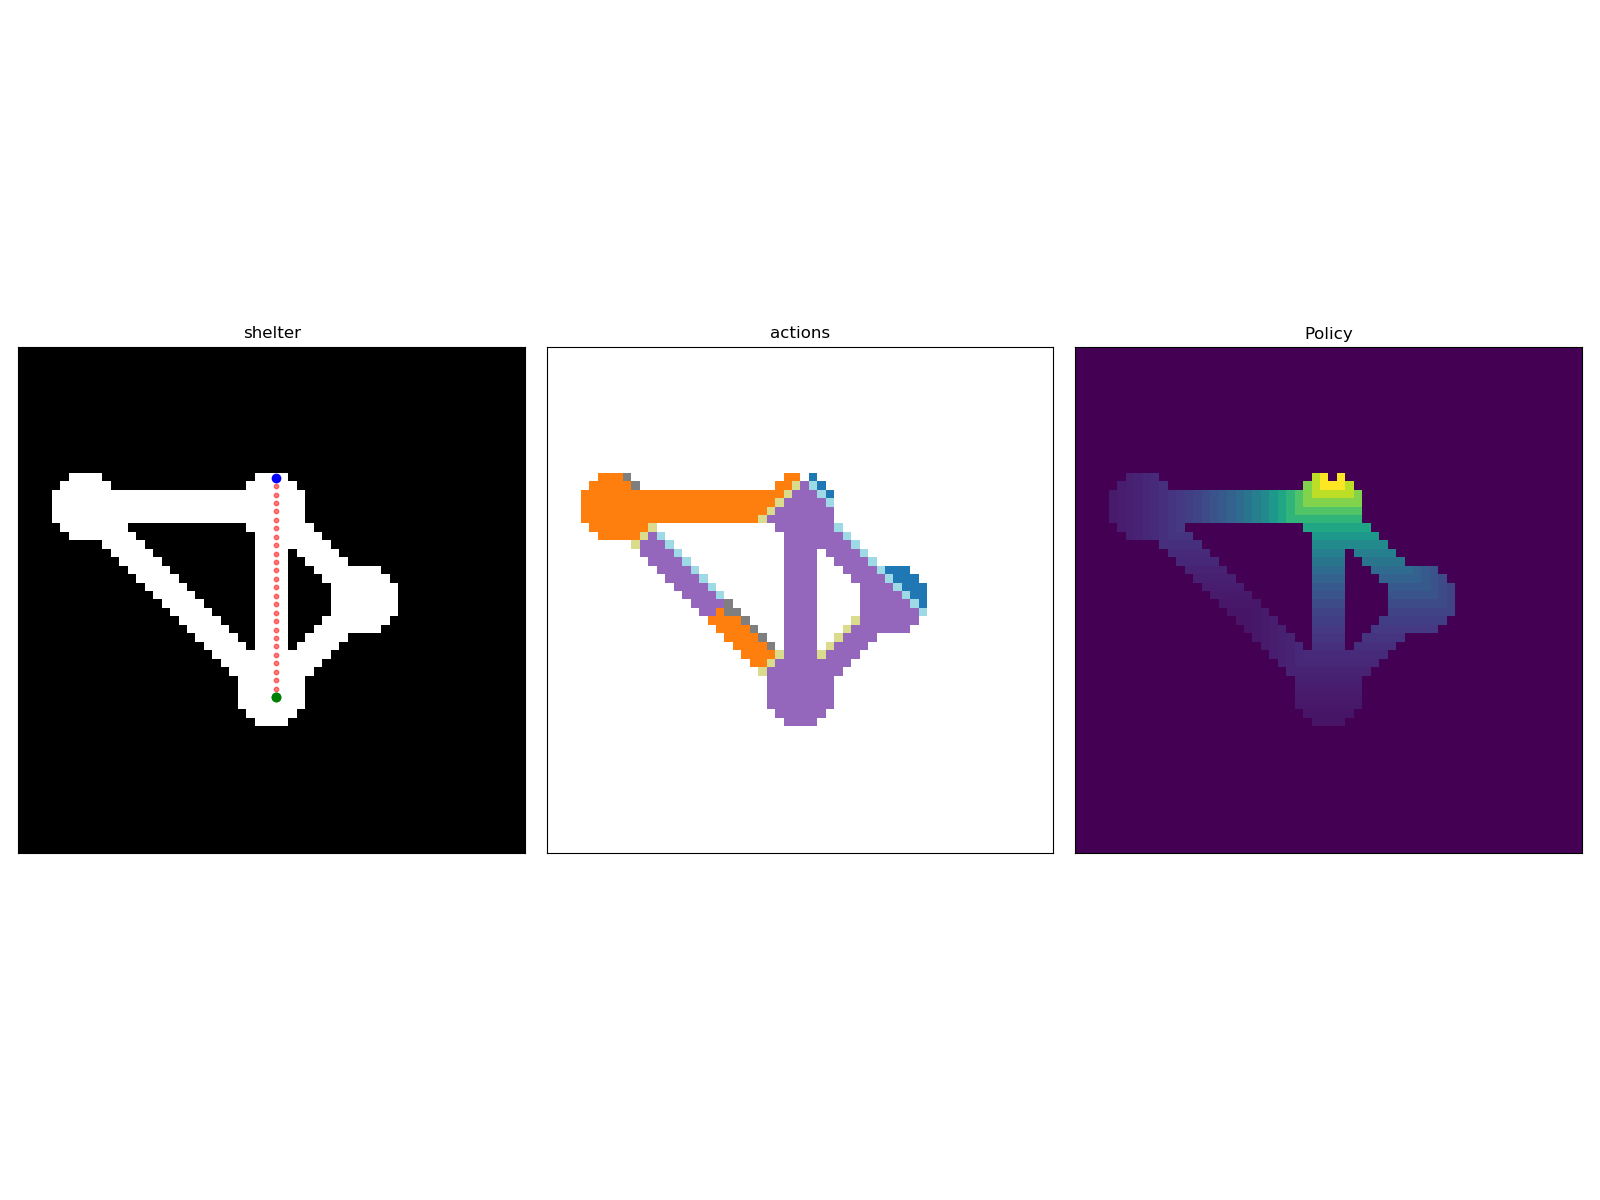
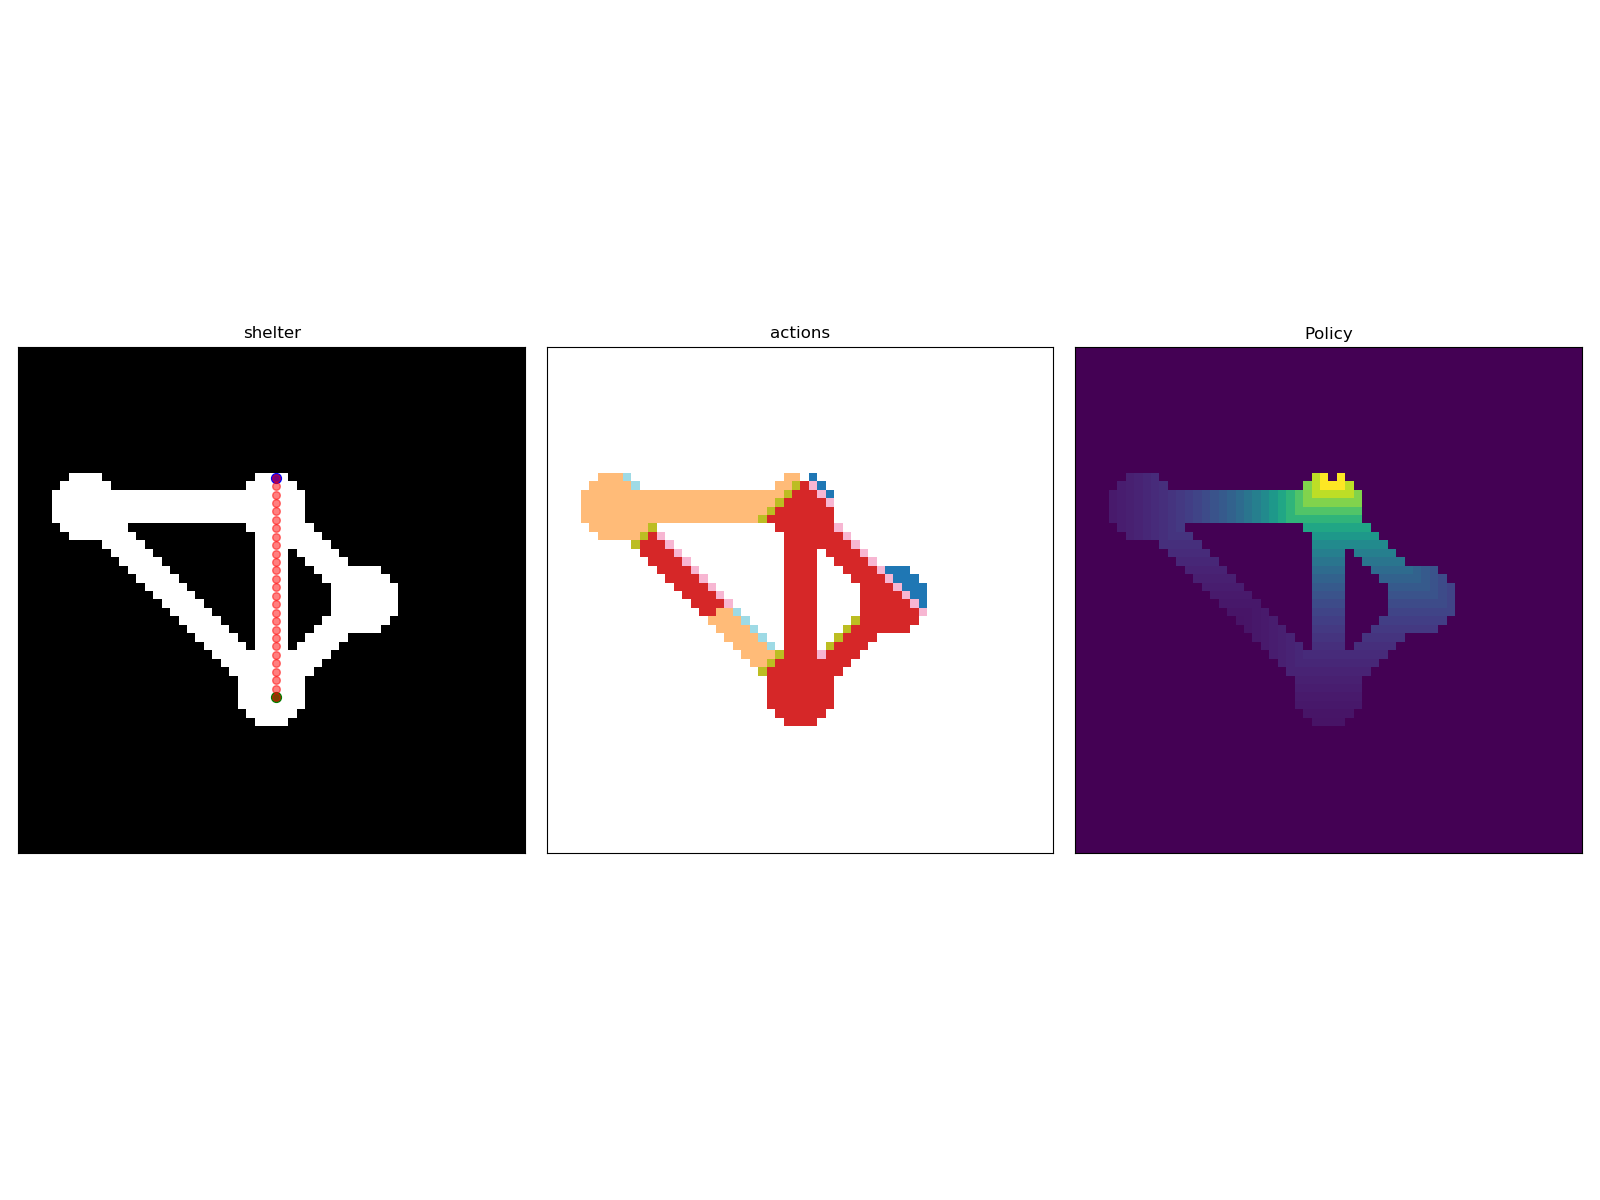
rl fixed action names

Changed region(s): [[0.3438, 0.37, 0.5938, 0.6167], [0.1562, 0.4008, 0.1875, 0.5858]]

diff --git a/Processing/modelling/maze_path_rl/path_agent.py b/Processing/modelling/maze_path_rl/path_agent.py
@@ -6,6 +6,7 @@ from Processing.tracking_stats.math_utils import calc_distance_between_points_2d
 from math import exp  
 import json
 import os
+from random import choice
 
 class Model:
     def __init__(self, env, load_trained=False):
@@ -16,7 +17,6 @@ class Model:
         
         self.max_iters = 201
         self.max_steps = round(self.env.grid_size**2 / 2)
-        self.walked = None
 
         # Parameters
         self.epsilon = .95  # the higher the less greedy
@@ -24,6 +24,13 @@ class Model:
         self.gamma = .9     # discount on future rewards, the higher the less discount
 
         self.shelter_is_goal = [0, .5, 1]  # 0-1 probability of prefering the action that leads to the shelter
+
+
+        self.shortest_walk = None
+
+        self.n_random_walks = 10
+        self.random_walks = []
+
 
     """
     -----------------------------------------------------------------------------------------------------------------
@@ -37,7 +44,7 @@ class Model:
         self.Q = {p:self.empty_policy() for p in policies}
 
     def empty_policy(self):
-        return [[list(np.zeros(self.n_actions)) for i in range(self.env.grid_size)] for j in range(self.env.grid_size)]
+        return [[list(np.zeros(len(self.actions.keys()))) for i in range(self.env.grid_size)] for j in range(self.env.grid_size)]
 
     def actions(self):
         self.actions = self.env.actions
@@ -125,45 +132,55 @@ class Model:
     -----------------------------------------------------------------------------------------------------------------
     """
 
-    def step(self, policy, current):
+    def step(self, policy, current, random_action = False):
         """[steps the agent while walking the maze. Given a certain policy and state (current position), selects the best 
         actions and moves the agent accordingly]
         
         Arguments:
             policy {[str]} -- [name of the self.Q entry - i.e. policy to sue while evaluating which action to take]
-            current {[type]} -- [description]
+            current {[list]} -- [x,y coordinates of current position]
+            random_action {[bool]} [if we should take a random action instead of using the policies to select an acyion]
         
         Returns:
             [type] -- [description]
         """
 
         # Select which action to perform
-        nxt = current.copy()
-        action_values = self.Q[policy][current[0]][current[1]]
-        action = np.argmax(action_values)
-        action = self.env.actions[action]
+        if not random_action:
+            action_values = self.Q[policy][current[0]][current[1]]
+            action = np.argmax(action_values)
+            action = self.env.actions[action]
+        else:
+            legal_actions = self.env.get_available_moves(current)
+            action = "down"  # initialise action as down
+            while "down" in action or "still" in action:  # dont move down silly agent [and dont stay still either!]
+                action = choice(legal_actions)
 
         # Move the agent accordingly
+        nxt = current.copy()
+        up, down = -1, 1
+        left, right = -1, 1
         if action == "down":
-            nxt[1] -= 1
+            nxt[1] += down
         elif action == "right":
-            nxt[0] += 1
+            nxt[0] += right
         elif action == "left":
-            nxt[0] -= 1
+            nxt[0] += left
         elif action == "up":
-            nxt[1] += 1
+            nxt[1] += up
         elif action == "up-right":
-            nxt[0] += 1
-            nxt[1] += 1
+            nxt[0] += right
+            nxt[1] += up
         elif action == "up-left":
-            nxt[0] -= 1
-            nxt[1] += 1
+            nxt[0] += left
+            nxt[1] += up
         elif action == "down-right":
-            nxt[0] += 1
-            nxt[1] -= 1
+            nxt[0] += right
+            nxt[1] += down
         elif action == "down-left":
-            nxt[0] -= 1
-            nxt[1] -= 1
+            nxt[0] += left
+            nxt[1] += down
+
         return nxt
 
     def shortest_walk_f(self,  start=None):
@@ -201,14 +218,87 @@ class Model:
         self.shortest_walk = walk
         return walk
 
+    def random_walk(self, n_steps):
+        walk = []
+        step_n = 0
+        curr = self.env.start.copy()
+
+        while step_n <= n_steps and curr != self.env.goal:
+            step_n += 1
+            walk.append(curr.copy())
+            nxt = self.step("shelter", curr, random_action=True)
+            # Check that nxt is a legal move
+            # if nxt[0] < 0 or nxt[1] < 0 or nxt[0] > self.env.grid_size or nxt[1] > self.env.grid_size:
+            #     break
+            # if nxt in self.env.free_states:
+            #     curr = nxt
+            curr = nxt
+        walk.append(curr)
+        return walk
 
 
+    def random_walks_f(self):
+        """
+            This function does N random walks from start to goal without using any policy.
+            Each walk can be max M steps long where M = 3 * length of the shortest goal.
+            After X steps the walk is not random anymore and the shelter policy is used to reach the shelter.
+            X = .5 * length of the shortest path to the goal
+            Only walks that reach the shelter are kept
+        """
+        print("Random walks time")
+
+        if self.shortest_walk == None: self.shortest_walk_f()
+
+        # Define params
+        max_n_steps = 3* len(self.shortest_walk)
+        n_random_steps = round(len(self.shortest_walk) * .75 )
+
+        # Keep looping until we have enough walks
+        counter = 0
+        while len(self.random_walks) < self.n_random_walks:
+            counter += 1
+            # do the random part of the walk
+            walk = self.random_walk(n_random_steps)
+            stopped_at = walk[-1]
+
+            # Continue the walk using the policy
+            walk.extend(self.shortest_walk_f(start=stopped_at))
+
+            # If the walk isn't too long, append it to the list
+            if len(walk) <= max_n_steps:
+                self.random_walks.append(walk)
+
+        print("{} out of {} walks were short enough".format(self.n_random_walks, counter))
+
+        # Plot the walks
+        f, ax = plt.subplots()
+        self.get_maze_image()
+        ax.imshow(self.maze, interpolation='none', cmap='gray')
+        for w in self.random_walks:
+            ax.scatter([x for x,y in w], [y for x,y in w], alpha=.5)
+            
+
+        plt.show()
+        a = 1
 
     """
     -----------------------------------------------------------------------------------------------------------------
                         Plotting functions
     -----------------------------------------------------------------------------------------------------------------
     """
+
+    def plot_single_walk(self, w):
+        f, ax = plt.subplots()
+        self.get_maze_image()
+        ax.imshow(self.maze, interpolation='none', cmap='gray')
+        ax.scatter([x for x,y in w], [y for x,y in w], alpha=.5)
+
+    def get_maze_image(self):
+        Q = self.Q['shelter']
+        free = self.env.free_states
+        grid_size = self.env.grid_size
+        pol = [[max(Q[i][j]) for i in range(grid_size)] for j in range(grid_size)]
+        self.maze =  [[1 if [i, j] in free else 0 for i in range(grid_size)] for j in range(grid_size)]
 
     def policy_plot(self):
 
@@ -238,13 +328,12 @@ class Model:
 
 
             axarr[i, 0].imshow(maze, interpolation='none', cmap='gray')
-            axarr[i, 0].plot(start[0], start[1], 'o', color='g')
-            axarr[i, 0].plot(goal[0], goal[1], 'o', color='b')
+            axarr[i, 0].scatter(start[0], start[1], c='g', s = 50)
+            axarr[i, 0].scatter(goal[0], goal[1], c='b', s=50)
 
             walk = self.shortest_walk_f()
             x, y = [x for x, y in walk], [y for x, y in walk]
-            axarr[i, 0].scatter(x, y, c='r', alpha=0.5, s=10)
-            axarr[i, 0].plot(x[0], y[0], 'o', color='g')
+            axarr[i, 0].scatter(x, y, c='r', alpha=0.5, s=30)
 
             axarr[i, 1].imshow(act, interpolation='none',  cmap="tab20")
             axarr[i, 2].imshow(pol, interpolation='none')
@@ -258,8 +347,6 @@ class Model:
             ax.set(xticks=[], yticks=[])
         f.tight_layout()
         f.savefig("Processing/modelling/maze_path_rl/results/{}.png".format(name))
-        self.maze = maze
-
 
 
 

diff --git a/Processing/modelling/maze_path_rl/path_maze.py b/Processing/modelling/maze_path_rl/path_maze.py
@@ -119,6 +119,21 @@ class Maze(object):
 			7: "down-left"
 		}
 
+	def get_available_moves(self, curr):
+		"""[Get legal moves given the current position, i.e. moves that lead to a free cell]
+		
+		Arguments:
+			curr {[list]} -- [x,y coordinates of the agent]
+		"""
+		legals = []
+		for action in self.actions.values():
+			action_next = self.move(action, curr)
+			if action_next in self.free_states:
+				legals.append(action)
+
+		return legals
+
+
 	@staticmethod
 	def move(action, curr):
 		"""
@@ -132,24 +147,26 @@ class Maze(object):
 			return [current[0] + x, current[1] + y]
 
 		# depending on the action taken, move the agent by x,y offsets
+		up, down = -1, 1
+		left, right = -1, 1
 		if action == "still":
 			nxt_state = change(curr, 0, 0)
 		elif action == "left":
-			nxt_state = change(curr, -1, 0)
+			nxt_state = change(curr, left, 0)
 		elif action == "right":
-			nxt_state = change(curr, 1, 0)
+			nxt_state = change(curr, right, 0)
 		elif action == "up":
-			nxt_state = change(curr, 0, 1)
+			nxt_state = change(curr, 0, up)
 		elif action == "down":
-			nxt_state = change(curr, 0, -1)
+			nxt_state = change(curr, 0, down)
 		elif action == "up-left":
-			nxt_state = change(curr, -1, 1)
+			nxt_state = change(curr, left, up)
 		elif action == "up-right":
-			nxt_state = change(curr, 1, 1)
+			nxt_state = change(curr, right, up)
 		elif action == "down-right":
-			nxt_state = change(curr, 1, -1)
+			nxt_state = change(curr, right, down)
 		elif action == "down-left":
-			nxt_state = change(curr, -1, -1)
+			nxt_state = change(curr, left, down)
 		return nxt_state
 
 	def act(self, action):

diff --git a/Processing/modelling/maze_path_rl/path_finder.py b/Processing/modelling/maze_path_rl/path_finder.py
@@ -18,7 +18,7 @@ FLAG_policy = False
 FLAG_showmaze = False
 
 randomise_start_during_training = True
-FLAG_load_trained = True
+FLAG_load_trained = False
 
 
 if __name__ == "__main__":
@@ -58,10 +58,16 @@ if __name__ == "__main__":
 		env = Maze(maze_design, grid_size, free_states,
 					goal, start_position, start_index, randomise_start_during_training)
 		
-
+		# Train the Q-learning agent
 		print("Learning the policy")
 		model = Model(env, FLAG_load_trained)
 		model.train()
+
+		# Get the shortest path to the shelter
+		model.shortest_walk_f()
+
+		# make random walks
+		# model.random_walks_f()
 
 		# Make policy plot
 		print("Plotting")
